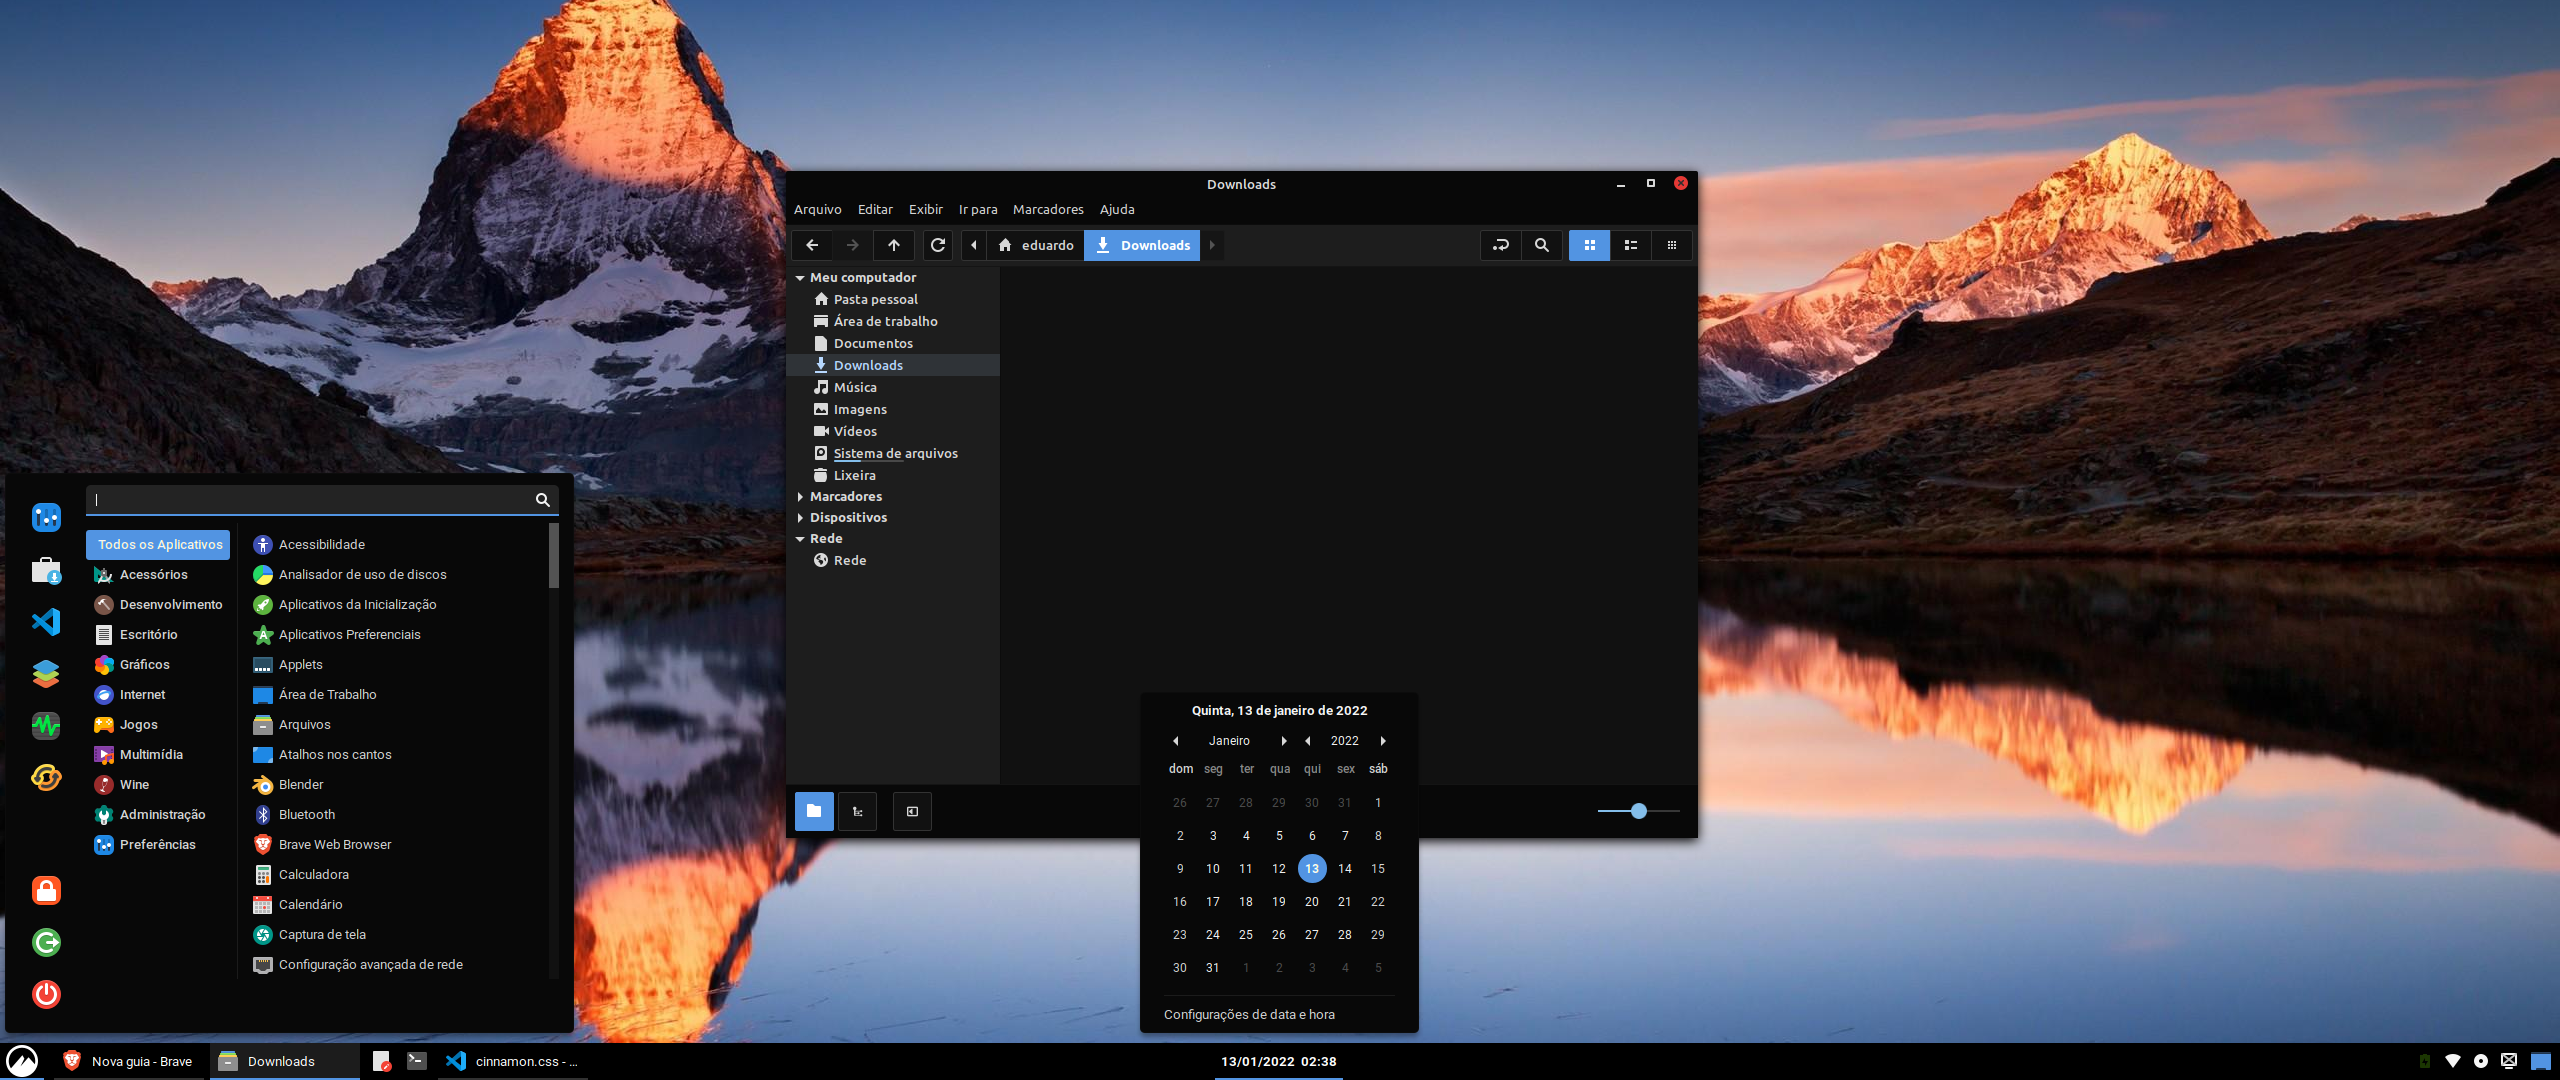
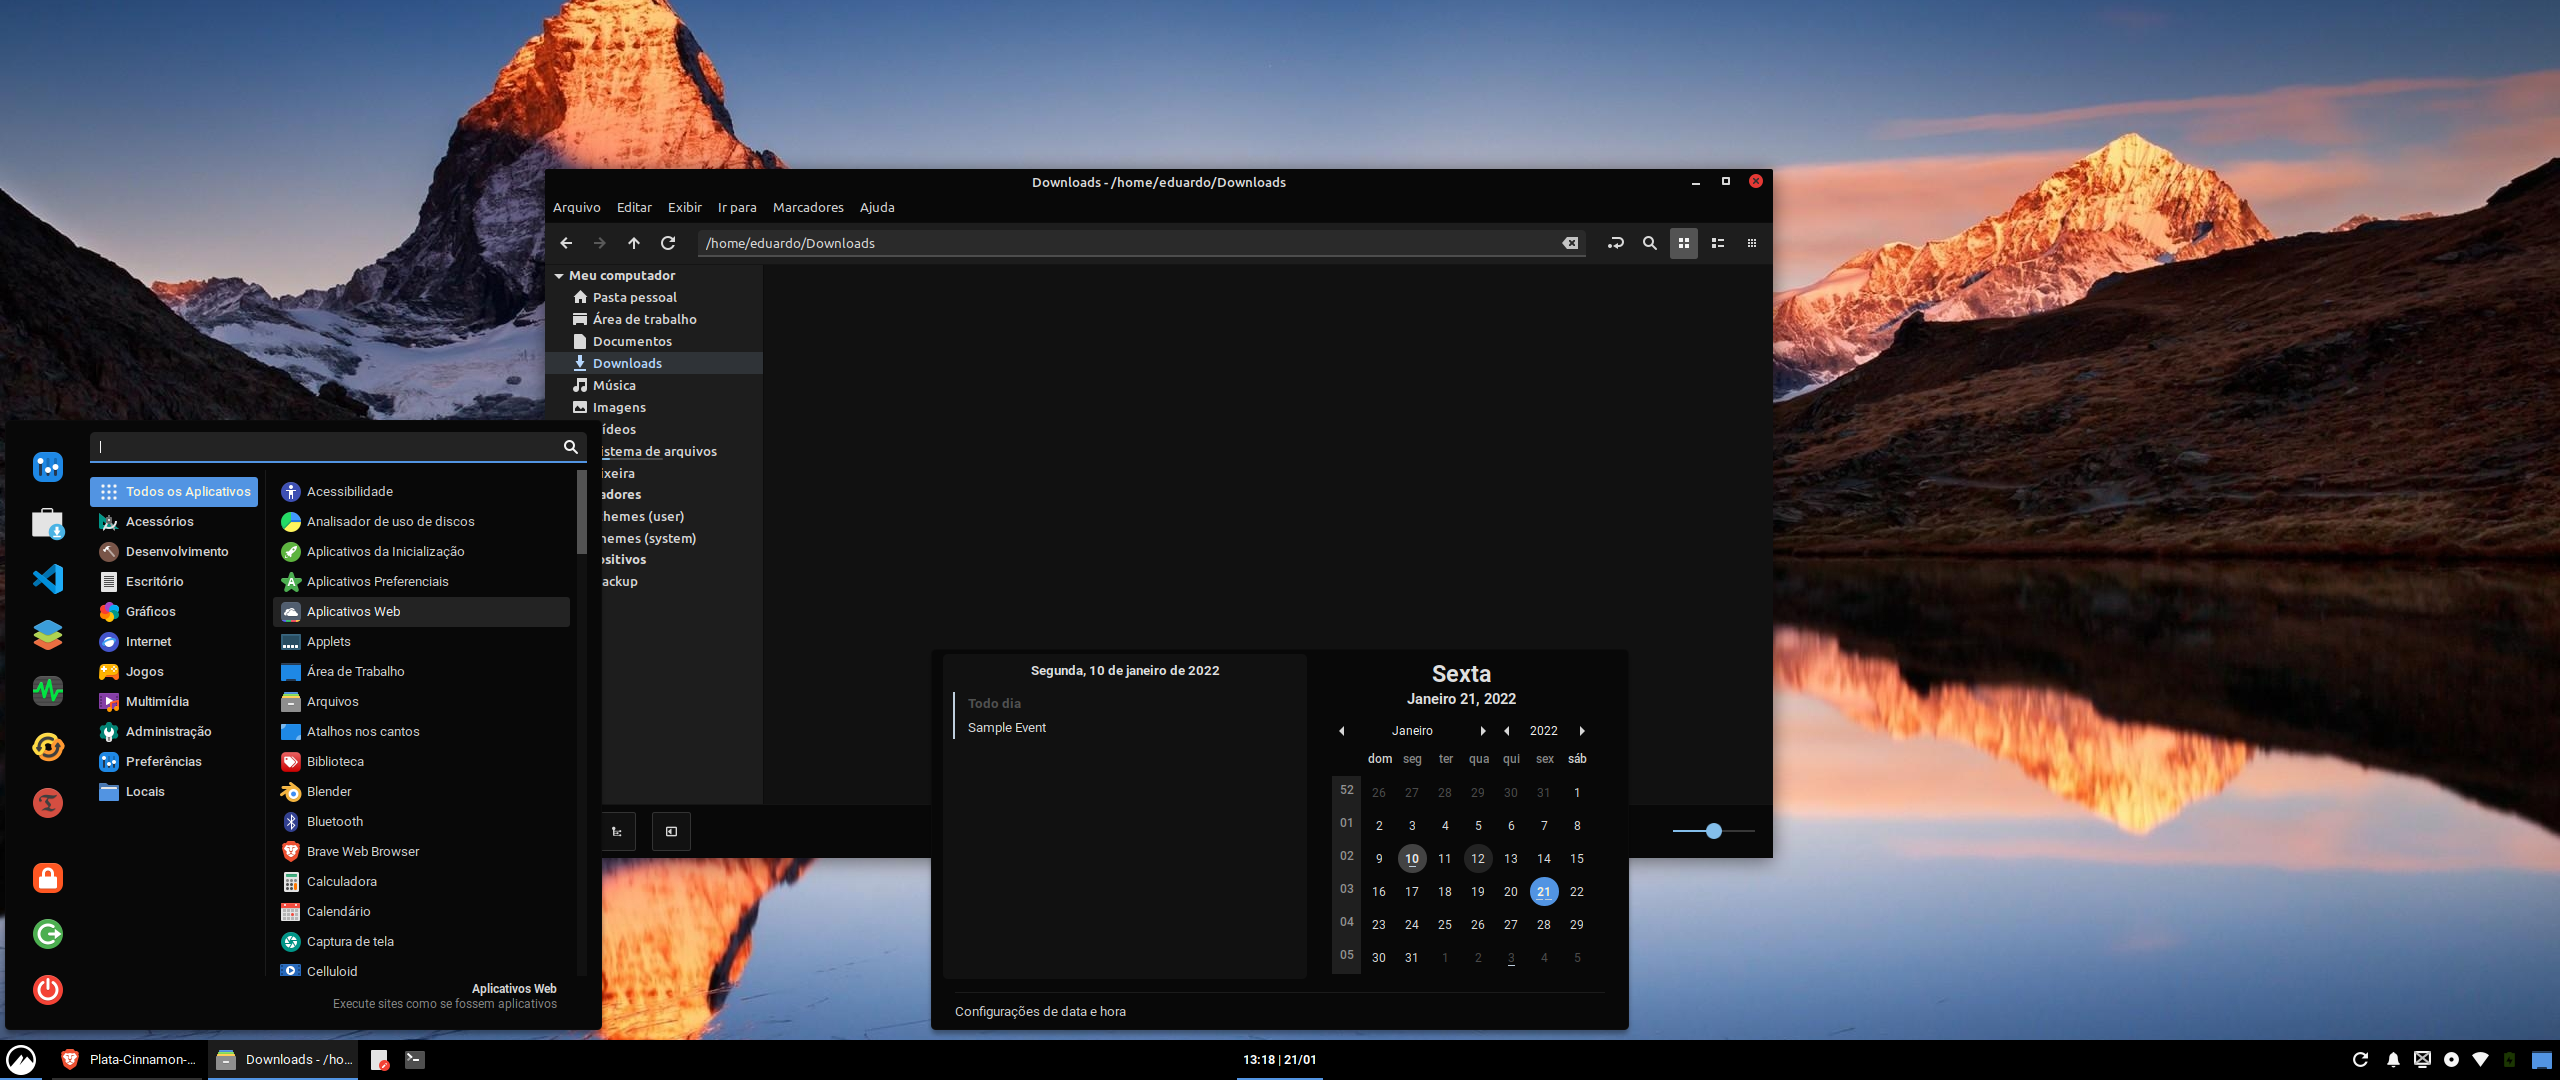
Screenshot Update

diff --git a/README.md b/README.md
@@ -1,4 +1,4 @@
-![Preview Screenshot](https://raw.githubusercontent.com/eduardoromeu/Plata-Cinnamon-Theme/main/Plata-Dark-Cinnamon/cinnamon/thumbnail.png "Preview Screenshot")
+![Preview Screenshot](https://raw.githubusercontent.com/eduardoromeu/Plata-Cinnamon-Theme/main/Plata-Noir-Cinnamon/cinnamon/thumbnail.png "Preview Screenshot")
 
 #### Installation
 - Copy the desired theme folder to ~/.themes
